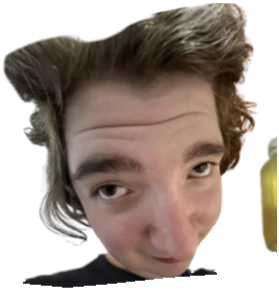
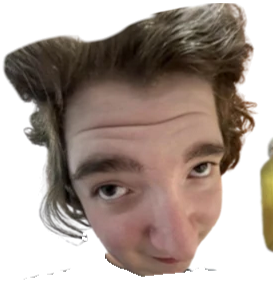
Narrator: the shirt collar stays with the shirt, not the head, so nothing bobs under his chin

diff --git a/tools/zombie-art/fit_character.py b/tools/zombie-art/fit_character.py
@@ -99,6 +99,18 @@ def main(cfg_path, char_path, dave_dir, pak, parts_out, preview_out):
             keep = masks[part] & skin
             owner[masks[part] & ~keep] = ''
             masks[part] = keep
+    # A part can give its dark pixels below a line back to the body -- the
+    # collar under a chin belongs to the shirt, or it bobs with the head.
+    luma = 0.299 * r + 0.587 * g + 0.114 * b
+    for trim in cfg.get('trim_dark', []):
+        part = trim['part']
+        if part in masks:
+            yy = np.arange(H)[:, None]
+            dark = (luma < trim['max_luma']) & (yy > trim['below_y'])
+            dark = cv2.morphologyEx(dark.astype(np.uint8), cv2.MORPH_OPEN, np.ones((3, 3), np.uint8)) > 0
+            give = masks[part] & dark
+            owner[give] = ''
+            masks[part] = masks[part] & ~give
     rest = present & (owner == '')
     masks[cfg['leftover']] = masks.get(cfg['leftover'], np.zeros((H, W), bool)) | rest
 
